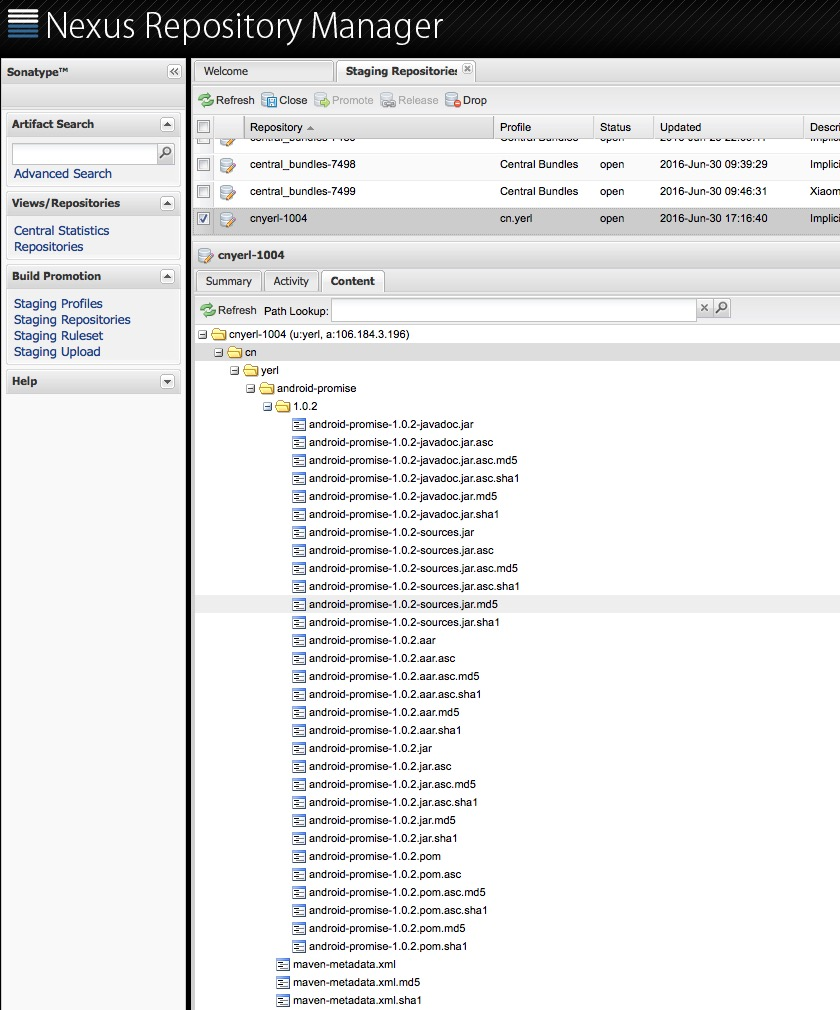
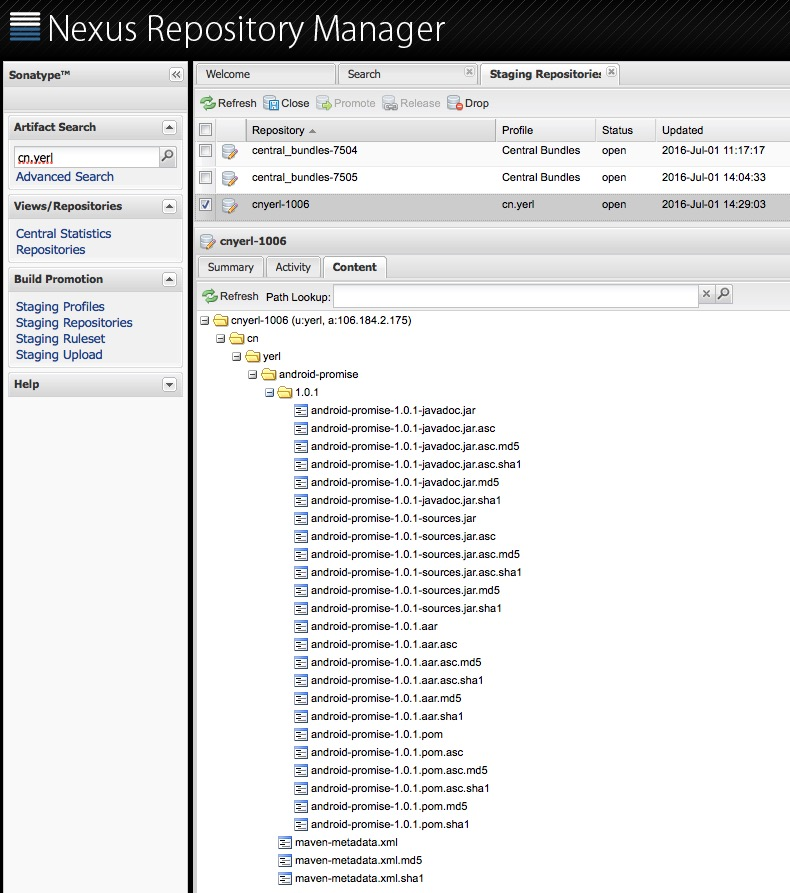
Update blog

Changed region(s): [[0.0, 0.0, 1.0, 1.0]]

diff --git a/_posts/2016-06-30-publish-library-to-maven-center-repository.md b/_posts/2016-06-30-publish-library-to-maven-center-repository.md
@@ -76,31 +76,9 @@ gpg --keyserver hkp://pool.sks-keyservers.net --send-keys E2F25563
 
 `upload.gradle`
 
-```
+```ruby
 apply plugin: 'maven'
 apply plugin: 'signing'
-
-def isReleaseBuild() {
-    return POM_VERSION.contains("SNAPSHOT") == false
-}
-
-def getReleaseRepositoryUrl() {
-    return hasProperty('RELEASE_REPOSITORY_URL') ? RELEASE_REPOSITORY_URL
-            : "https://oss.sonatype.org/service/local/staging/deploy/maven2"
-}
-
-def getSnapshotRepositoryUrl() {
-    return hasProperty('SNAPSHOT_REPOSITORY_URL') ? SNAPSHOT_REPOSITORY_URL
-            : "https://oss.sonatype.org/content/repositories/snapshots"
-}
-
-def getRepositoryUsername() {
-    return hasProperty('NEXUS_USERNAME') ? NEXUS_USERNAME : ""
-}
-
-def getRepositoryPassword() {
-    return hasProperty('NEXUS_PASSWORD') ? NEXUS_PASSWORD : ""
-}
 
 afterEvaluate { project ->
     uploadArchives {
@@ -108,11 +86,11 @@ afterEvaluate { project ->
             mavenDeployer {
                 beforeDeployment { MavenDeployment deployment -> signing.signPom(deployment) }
 
-                repository(url: getReleaseRepositoryUrl()) {
-                    authentication(userName: getRepositoryUsername(), password: getRepositoryPassword())
+                repository(url: RELEASE_REPOSITORY_URL) {
+                    authentication(userName: NEXUS_USERNAME, password: NEXUS_PASSWORD)
                 }
-                snapshotRepository(url: getSnapshotRepositoryUrl()) {
-                    authentication(userName: getRepositoryUsername(), password: getRepositoryPassword())
+                snapshotRepository(url: SNAPSHOT_REPOSITORY_URL) {
+                    authentication(userName: NEXUS_USERNAME, password: NEXUS_PASSWORD)
                 }
 
                 pom.project {
@@ -120,7 +98,6 @@ afterEvaluate { project ->
                     artifactId POM_ARTIFACT_ID
                     version POM_VERSION
                     packaging POM_PACKAGING
-
 
                     name SONATYPE_NAME
                     description SONATYPE_DESCRIPTION
@@ -137,7 +114,6 @@ afterEvaluate { project ->
                         developer {
                             name SONATYPE_DEVELOPER_NAME
                             email SONATYPE_DEVELOPER_EMAIL
-                            organizationUrl SONATYPE_DEVELOPER_ORGANIZATION_URL
                         }
                     }
 
@@ -166,7 +142,6 @@ afterEvaluate { project ->
     }
 
     signing {
-        //required { isReleaseBuild() && gradle.taskGraph.hasTask("uploadArchives") }
         sign configurations.archives
     }
 
@@ -193,7 +168,7 @@ afterEvaluate { project ->
 ```
 　　这段Gradle脚本用于生成Sonatype Nexus要求的所有文件，包括
 
-- `xxxx-xxxx.jar` 项目生成的库
+- `xxxx-xxxx.jar` 库的打包文件。Android的库文件后缀名为aar。
 - `xxxx-xxxx.jar.asc` PGP签名
 - `xxxx-xxxx-javadoc.jar` 项目生成的document
 - `xxxx-xxxx-javadoc.jar.asc` PGP签名
@@ -208,11 +183,10 @@ afterEvaluate { project ->
 
 ```ruby
 # POM属性设置
-POM_VERSION=1.0.2
-POM_VERSION_CODE=102
+POM_VERSION=1.0.1
 POM_GROUP_ID=cn.yerl
 POM_ARTIFACT_ID=android-promise
-POM_PACKAGING=jar
+POM_PACKAGING=aar
 
 # sonatype.org要求的相关属性
 #-> Project Name, Description and URL
@@ -227,7 +201,6 @@ SONATYPE_LICENCE_URL=https://www.apache.org/licenses/LICENSE-2.0.txt
 #-> Developer Information
 SONATYPE_DEVELOPER_NAME=yerl
 SONATYPE_DEVELOPER_EMAIL=git@yerl.cn
-SONATYPE_DEVELOPER_ORGANIZATION_URL=http://yerl.cn
 
 #-> SCM Information
 SONATYPE_SCM_CONNECTION=scm:git:git@github.com:Poi-Son/android-promise.git
@@ -236,8 +209,8 @@ SONATYPE_SCM_URL=git@github.com:Poi-Son/android-promise.git
 
 
 # 如果想上传到私服,则将这个改成私服的地址
-# RELEASE_REPOSITORY_URL=https://oss.sonatype.org/service/local/staging/deploy/maven2
-# SNAPSHOT_REPOSITORY_URL=https://oss.sonatype.org/content/repositories/snapshots
+RELEASE_REPOSITORY_URL=https://oss.sonatype.org/service/local/staging/deploy/maven2
+SNAPSHOT_REPOSITORY_URL=https://oss.sonatype.org/content/repositories/snapshots
 ```
 
 　　另外，由于上传时需要帐号密码、密钥相关信息，如果将这些信息放在项目下的`gradle.properties`里，并上传到GitHub上的话，会造成信息泄露。因此，可以将这些信息放在*~/.gradle/gradle.properties*文件里。
@@ -247,7 +220,7 @@ SONATYPE_SCM_URL=git@github.com:Poi-Son/android-promise.git
 NEXUS_USERNAME=your nexus username
 NEXUS_PASSWORD=your nexus password
 
-# 密钥
+# 密钥配置
 signing.keyId=your pgp key id
 signing.password=your gpg password
 signing.secretKeyRingFile=your gpg secring file
@@ -255,11 +228,11 @@ signing.secretKeyRingFile=your gpg secring file
 
 > signing.secretKeyRingFile的目录一般是这样的：*~/.gnupg/secring.gpg*
 
-　　如果你的安卓库项目准备打包成JAR格式的话，还需要修改一下该项目的*build.gradle*文件。
+　　修改一下库项目的*build.gradle*文件。
 
 `build.gradle`
 
-```
+```ruby
 apply plugin: 'com.android.library'
 apply from: '../upload.gradle'
 
@@ -284,15 +257,6 @@ android {
         sourceCompatibility JavaVersion.VERSION_1_7
         targetCompatibility JavaVersion.VERSION_1_7
     }
-
-    // 在JavaCompile之后,将源代码打包成jar包
-    libraryVariants.all { variant ->
-        def name = variant.buildType.name
-        def task = project.tasks.create "jar${name.capitalize()}", Jar
-        task.dependsOn variant.javaCompile
-        task.from variant.javaCompile.destinationDir
-        artifacts.add('archives', task);
-    }
 }
 
 afterEvaluate { project ->
@@ -308,16 +272,12 @@ dependencies {
     testCompile 'junit:junit:4.12'
 }
 ```
-　　这段脚本会在JavaCompile任务执行后去执行一个打包任务，它会将JavaCompile任务生成的目录(包含.class文件)打包成JAR文件。
-
 　　在gradle运行build任务
 
 ![](../assets/blog/publish-library-to-maven-central-repository/run-build-task.png)
 
-　　如果以上配置都正确的话，你应该在该项目下的*build/libs*目录下找到6个文件。
+　　如果以上配置都正确的话，你应该在该项目下的*build/libs*目录下找到4个文件。
 
-- `xxxx-xxxx.jar` 如果你想上传的是aar包的话，这个可以没有
-- `xxxx-xxxx.jar.asc` 如果你想上传的是aar包的话，这个可以没有
 - `xxxx-xxxx-javadoc.jar`
 - `xxxx-xxxx-javadoc.jar.asc`
 - `xxxx-xxxx-sources.jar`
@@ -338,15 +298,7 @@ dependencies {
 
 　　如果你的结构与上图差不多，那么恭喜你，你快成功了。否则，回去检查一下哪一步出错了。
 
-　　Android Studio一般采用aar打包。在这个例子中，android-promise里面没有资源文件，也没有其它的东西，仅包含4个类，因此直接打包成jar更合适一点。但是在上图，我们可以看到，aar也被打包上传在这里了，因此我们需要将它删除。
-
-> 删除步骤：选中文件 --> 在右侧的选项卡里打开*Artifact* --> Delete
-
-　　删除后，刷新一下页面。
-
-![](../assets/blog/publish-library-to-maven-central-repository/nexus-staging-repositories-final-content.png)
-
-　　完成以上步骤之后，点击*Close*。这个操作会触发检验操作，系统会自动检验你上传的包是否符合条件。
+　　点击*Close*。这个操作会触发检验操作，系统会自动检验你上传的包是否符合条件。
 
 ![](../assets/blog/publish-library-to-maven-central-repository/close-staging-repositories.png)
 
@@ -361,7 +313,7 @@ dependencies {
 
 ![](../assets/blog/publish-library-to-maven-central-repository/reply-jira.png)
 
-　　等待审批人回复之后，你的库便已经同步到中央库了。
+　　等待审批人回复之后，大概10分钟到2个小时，你的库便已经同步到中央库了。
 
 ### 更新
 　　更新操作就非常简单了，只需要在*gradle.properties*文件里，将`POM_VERSION`的版本改为你想要的新版本，然后运行`gradle uploadArchives`，然后在Sonatype Nexus里面删掉*aar*相关的文件，然后*Close*、*Release*即可。过一段时间后，中央库就会同步过来了。
